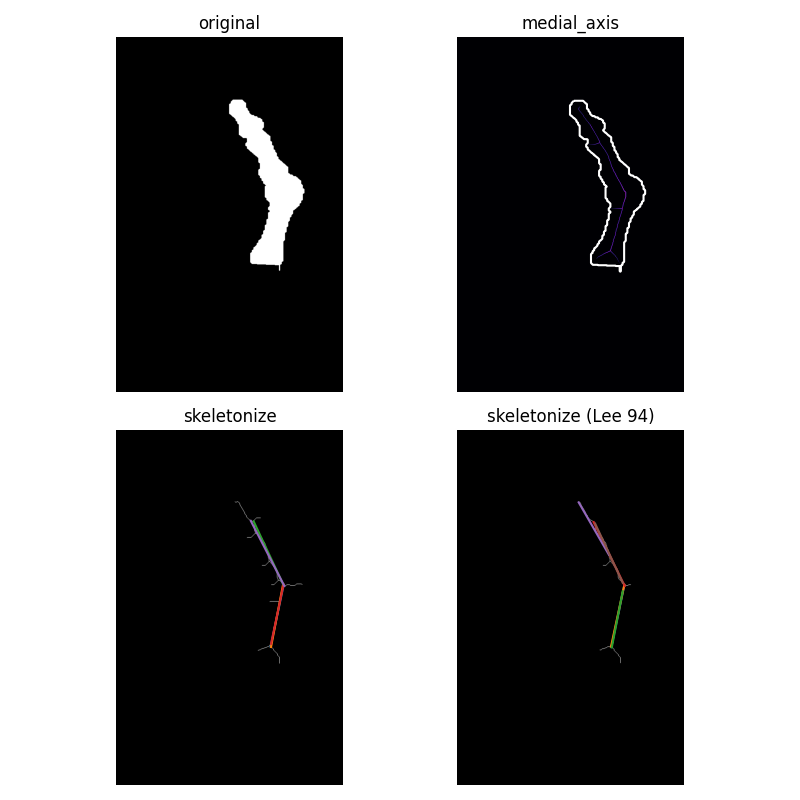
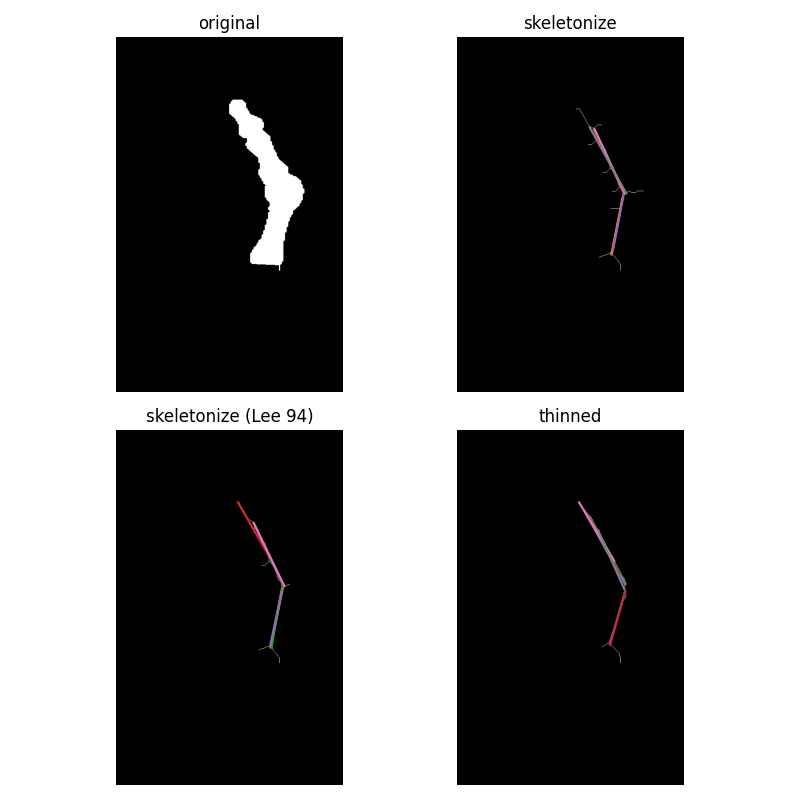
Add thinned version

diff --git a/lab3/lab3.py b/lab3/lab3.py
@@ -1,6 +1,6 @@
 import sys
 import os
-from skimage.morphology import skeletonize, medial_axis
+from skimage.morphology import skeletonize,, thin
 from skimage.transform import probabilistic_hough_line
 from skimage.util import invert
 from skimage import data, img_as_bool, io, color
@@ -14,10 +14,9 @@ image = img_as_bool(
     color.rgb2gray(color.rgba2rgb(io.imread(mainDir + "input/" + imgPath)))
 )
 
-skel, distance = medial_axis(image, return_distance=True)
-
 skeleton = skeletonize(image)
 skeleton_lee = skeletonize(image, method="lee")
+thinned = thin(image)
 
 threshold = 15
 line_length = 130
@@ -29,8 +28,9 @@ angle = probabilistic_hough_line(
 angle_lee = probabilistic_hough_line(
     skeleton_lee, threshold=threshold, line_length=line_length, line_gap=line_gap
 )
-
-dist_on_skel = distance * skel
+angle_thinned = probabilistic_hough_line(
+    thinned, threshold=threshold, line_length=line_length, line_gap=line_gap
+)
 
 fig, axes = plt.subplots(2, 2, figsize=(8, 8), sharex=True, sharey=True)
 ax = axes.ravel()
@@ -39,23 +39,25 @@ ax[0].imshow(image, cmap=plt.cm.gray)
 ax[0].set_title("original")
 ax[0].axis("off")
 
-ax[1].imshow(dist_on_skel, cmap="magma")
-ax[1].contour(image, [0.5], colors="w")
-ax[1].set_title("medial_axis")
-ax[1].axis("off")
-
-ax[2].imshow(skeleton, cmap=plt.cm.gray)
+ax[1].imshow(skeleton, cmap=plt.cm.gray)
 for line in angle:
     p0, p1 = line
-    ax[2].plot((p0[0], p1[0]), (p0[1], p1[1]))
-ax[2].set_title("skeletonize")
-ax[2].axis("off")
+    ax[1].plot((p0[0], p1[0]), (p0[1], p1[1]))
+ax[1].set_title("skeletonize")
+ax[1].axis("off")
 
-ax[3].imshow(skeleton_lee, cmap=plt.cm.gray)
+ax[2].imshow(skeleton_lee, cmap=plt.cm.gray)
 for line in angle_lee:
     p0, p1 = line
+    ax[2].plot((p0[0], p1[0]), (p0[1], p1[1]))
+ax[2].set_title("skeletonize (Lee 94)")
+ax[2].axis("off")
+
+ax[3].imshow(thinned, cmap=plt.cm.gray)
+for line in angle_thinned:
+    p0, p1 = line
     ax[3].plot((p0[0], p1[0]), (p0[1], p1[1]))
-ax[3].set_title("skeletonize (Lee 94)")
+ax[3].set_title("thinned")
 ax[3].axis("off")
 
 fig.tight_layout()
